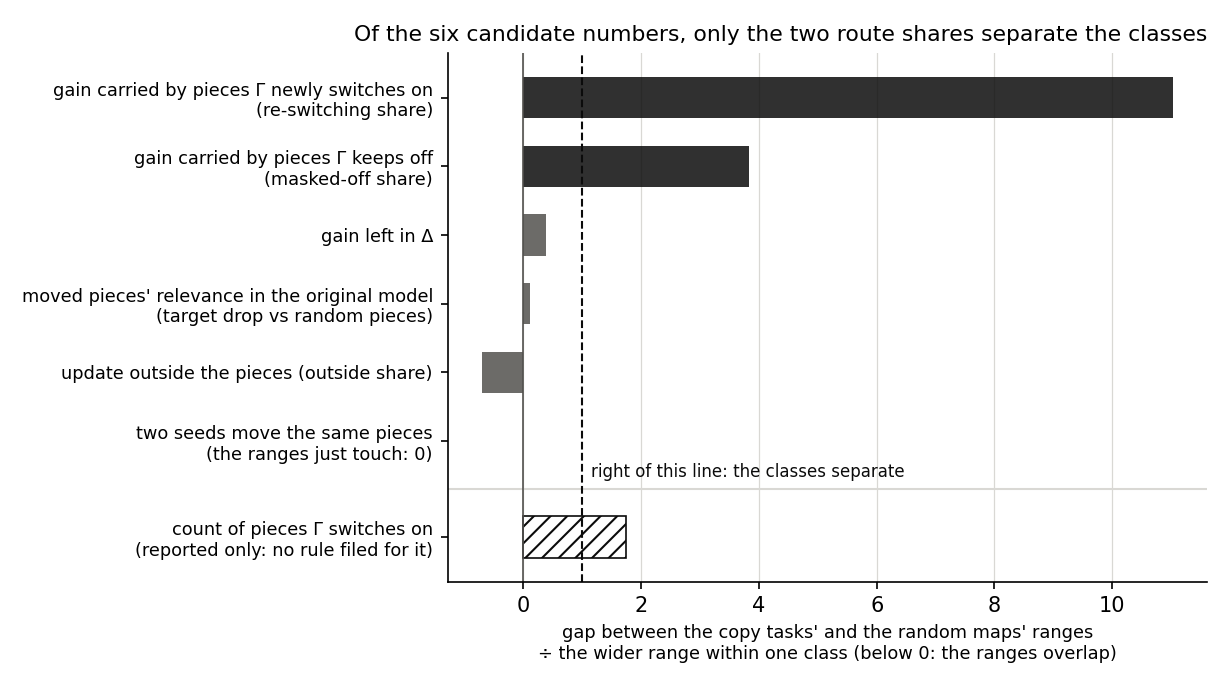
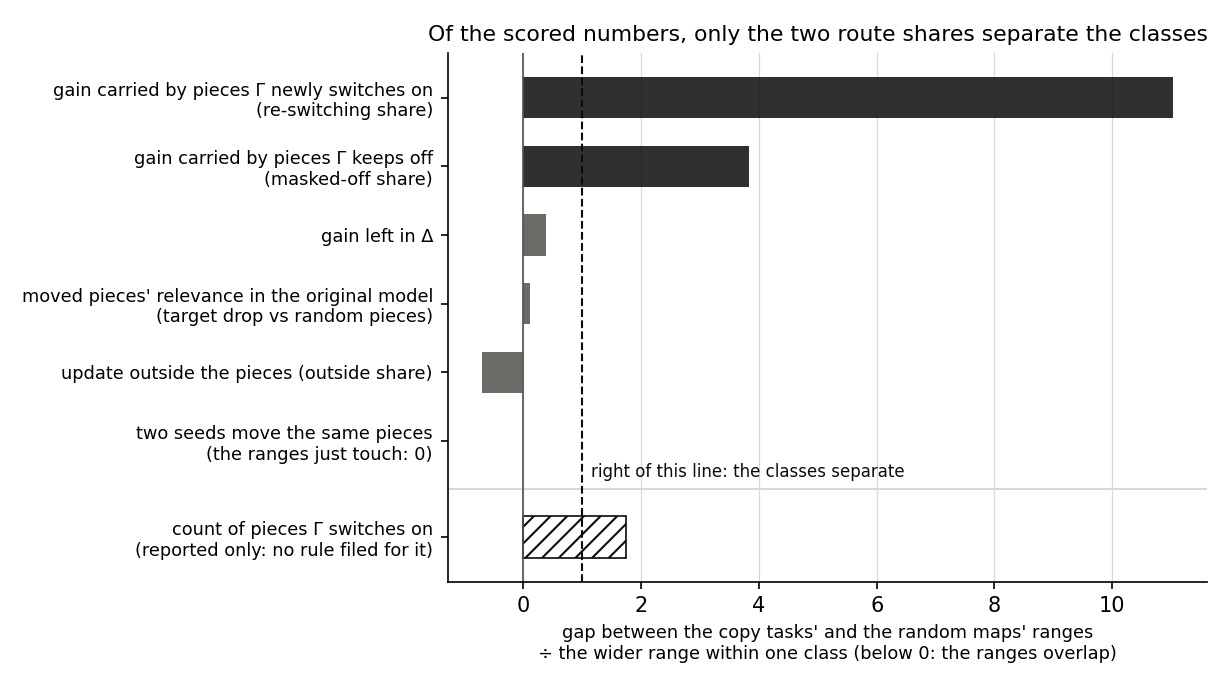
E12 card: final-read fixes

Changed region(s): [[0.278, 0.0304, 0.9886, 0.0609]]

diff --git a/docs/research_log/parts/experiments/e12.html b/docs/research_log/parts/experiments/e12.html
@@ -3,7 +3,7 @@
 <p class="one"><strong>The question.</strong> VPD writes each weight matrix as many rank-one pieces (subcomponents) plus a leftover Δ, and an importance function Γ decides, at each position, which pieces are switched on. Q4 asks whether it matters that a fine-tune teaches the model something new rather than strengthening something it already does. Every earlier run asked whether a map of the update onto the pieces passes VPD's checks; this one steps back and asks whether any number the decomposition gives can tell the two kinds of update apart at all. The key-to-value cipher run (E10) had seen one hint: its copy and random-pair tasks took different routes.</p>
 <p class="one"><strong>What we did.</strong> Each task puts a rare marker token before a common word, the key, in ordinary text, and fine-tunes the model to predict a fixed word next; the trigger is the key's position. In the two <em>copy</em> tasks that word is the key itself, which the model already has machinery for. In the two <em>random-map</em> tasks it is an arbitrary other word, the same 32 pairs every time, which nothing in the model does. Each fine-tune ran at two seeds, eight states in all. The <em>least-squares split</em> then writes each weight change as the smallest change of the pieces that reproduces it, with the rest put in Δ. We read six numbers per state, some off the update itself and some off the <em>route split</em>. The route split is read in a stand-in model built from the pieces, each scaled by Γ's importance value at that position. It divides the fine-tune's gain on the target at the trigger exactly into shares that sum to 1: carried by the moved pieces themselves, by pieces Γ newly switches on (the <em>re-switching share</em>), by pieces Γ keeps off (the <em>masked-off share</em>), and left in Δ. A number separates the classes when their ranges do not overlap and the gap between them is wider than the spread within either class.</p>
 <p class="one"><strong>What we found.</strong> Of the six candidate numbers, only the two route shares separate the classes (first figure). For copying, pieces Γ switches on carry about 0.8 of the gain; for the random maps, pieces Γ keeps off carry about half (second figure). Nothing read off the update itself separates them (third figure). It lies outside the pieces equally often in both classes. It lands on pieces that already mattered at the trigger in both; copying reads higher there, but the spread within each class is wider than the gap. Γ also switches on several times more pieces for copying (fourth figure). That count was reported without a rule set beforehand; it would clear the separation bar, and like the route shares it is read from Γ, not from the update.</p>
-<p class="one"><strong>What it means.</strong> For Q4, "new" shows up in how the frozen Γ reads the fine-tuned model, not in the weight change written in the pieces, so a map that keeps Γ frozen cannot see it. The caveat is scope: two tasks and two seeds per class in one format, so newness is equated with one kind of task. The random maps also learned less cleanly: one only just reached the bar, and the other needed three times the steps and twice the update size, though its numbers match the first's. Later runs reused these tasks as updates of known kind. E46 reproduced the separation; E50 found that resetting pieces in the real fine-tuned model does not separate the classes, so the separation lives in the stand-in only.</p>
+<p class="one"><strong>What it means.</strong> For Q4, on these two tasks per class, the difference between a new and an existing behaviour showed up only in how the frozen Γ reads the fine-tuned model inside the stand-in, not in the weight change written in the pieces; a map that keeps Γ frozen did not see it here. The caveat is scope: two tasks and two seeds per class in one format, so newness is equated with one kind of task. The random maps also learned less cleanly: one only just reached the bar, and the other needed three times the steps and twice the update size, though its numbers match the first's. Later runs reused these tasks as updates of known kind. E46 reproduced the separation; E50 found that resetting pieces in the real fine-tuned model does not separate the classes, so the separation lives in the stand-in only.</p>
 <figure>
 <img src="fig/e12_log_verdict.png" alt="Horizontal bars, one per candidate number, of the gap between the copy tasks' and the random maps' ranges over the wider within-class range, with a dashed line at 1 marking separation. Re-switching share about 11 and masked-off share about 4 lie right of the line; gain left in Delta about 0.4, the moved pieces' relevance about 0.1, the seed overlap 0 and the outside share below 0 lie left of it. Below a divider, a hatched bar for the unscored count of pieces Gamma switches on reads about 1.7.">
 <figcaption><strong>1. Which numbers separate copying from the random maps?</strong> Only the route shares. Each bar is the gap between the two classes' ranges divided by the wider spread inside one class; right of the dashed line at 1 the classes separate, below 0 their ranges overlap. The share left in Δ is a little higher for the random maps, but the gap is smaller than the spread within a class, as predicted beforehand. The hatched bar, below the line, is the count of pieces Γ switches on (fourth figure): it was not one of the scored numbers, and it too is read from Γ.</figcaption>

diff --git a/experiments/new_vs_existing/plot_log.py b/experiments/new_vs_existing/plot_log.py
@@ -93,7 +93,7 @@ def fig_verdict(tasks: dict[str, Any]) -> None:
     ax.set_yticks([*y, 0], [*(lab for lab, _, _ in items), unscored[0]], fontsize=8.5)
     ax.set_xlabel("gap between the copy tasks' and the random maps' ranges\n÷ the wider range within one class "
                   "(below 0: the ranges overlap)", fontsize=8.5)
-    ax.set_title("Of the six candidate numbers, only the two route shares separate the classes", fontsize=10.5, loc="right")
+    ax.set_title("Of the scored numbers, only the two route shares separate the classes", fontsize=10.5, loc="right")
     style(ax, axis="x")
     save(fig, "log_verdict.png")
 
